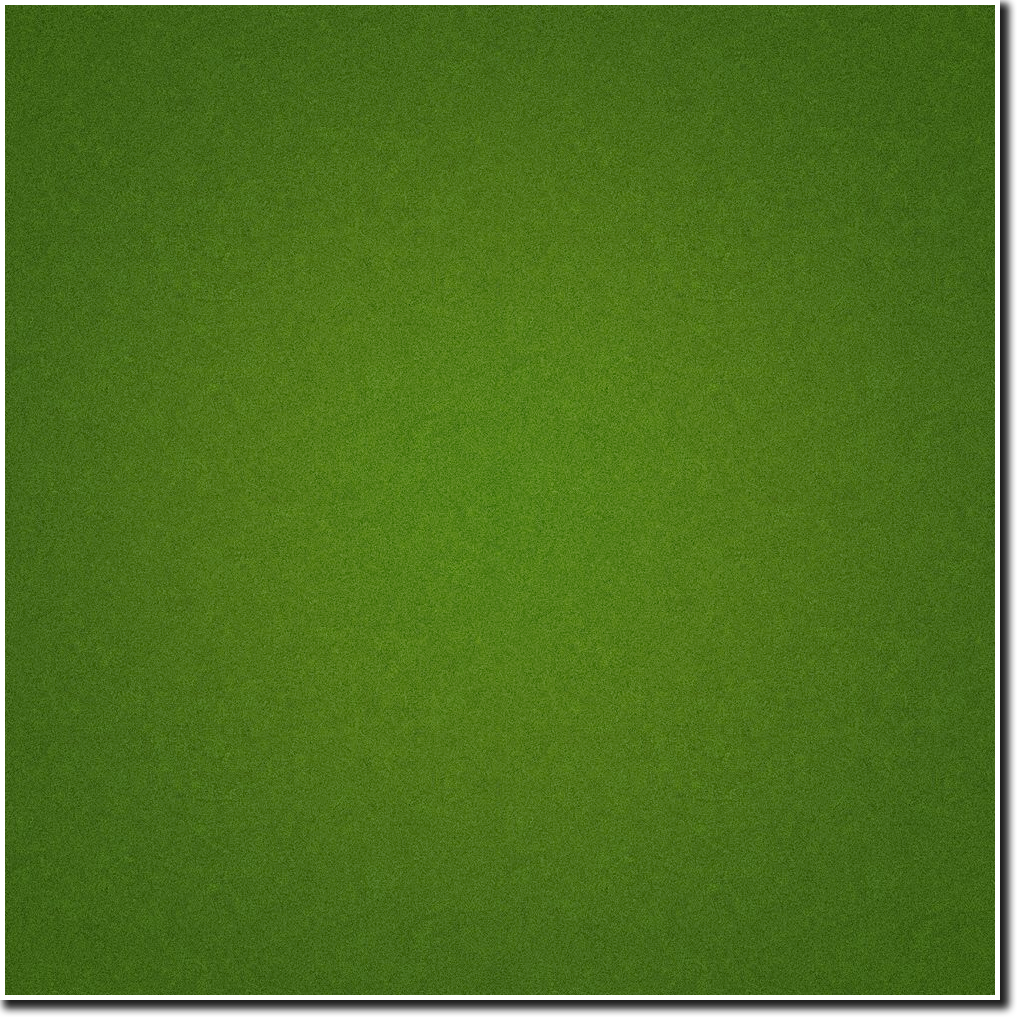
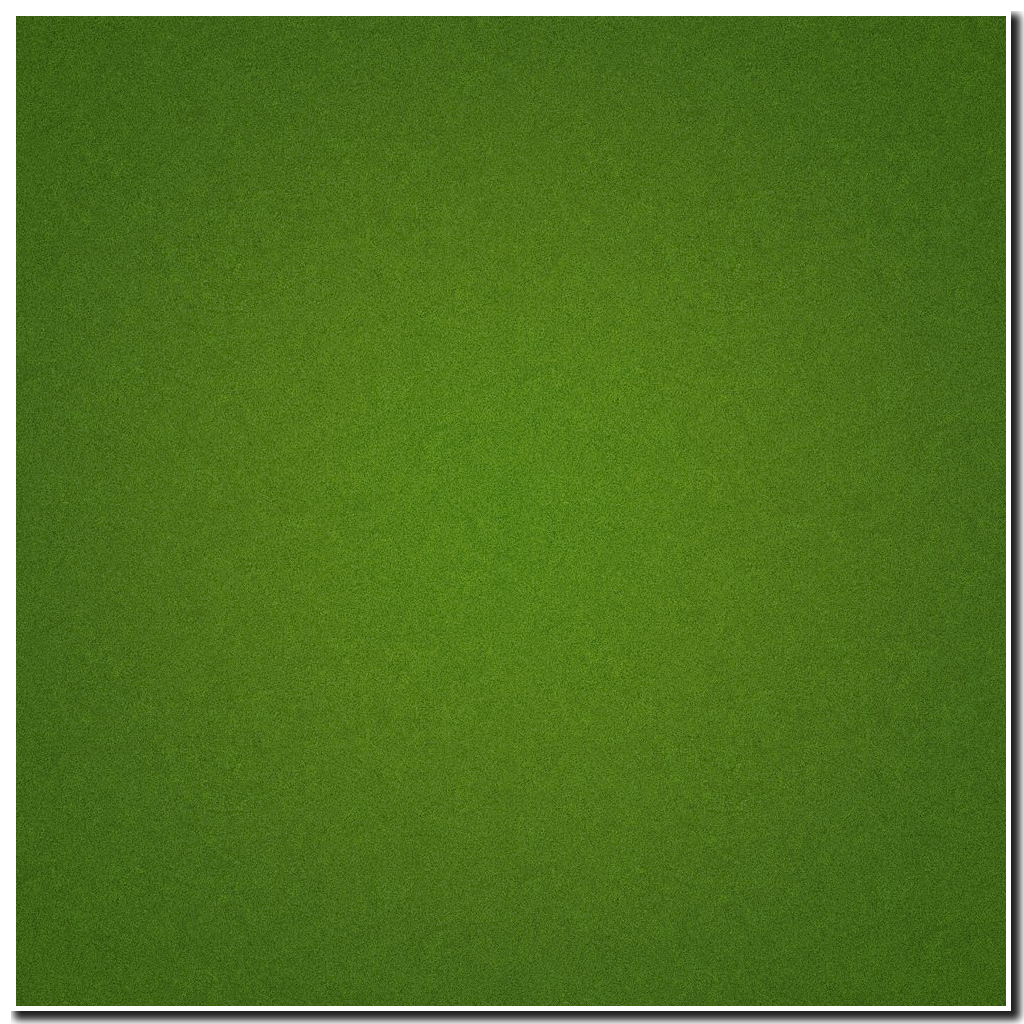
Képek frissítése és háttér

Changed region(s): [[0.0, 0.0, 1.0, 1.0]]

diff --git a/core/src/com/csanydroid/game/GameStage.java b/core/src/com/csanydroid/game/GameStage.java
@@ -185,6 +185,12 @@ public class GameStage extends Stage implements GestureDetector.GestureListener 
 		super(viewport, batch);
 		this.maze = maze;
 		loadMaze(maze);
+		int bgsize = maze.getWidth() > maze.getHeight() ? maze.getWidth() : maze.getHeight();
+		Gdx.app.log("bgsize", bgsize + "");
+		BackgroundActor backgroundActor = new BackgroundActor();
+		backgroundActor.setSize(bgsize + 4, bgsize + 4);
+		backgroundActor.setPosition(-2f + (bgsize - maze.getWidth()) / 2, -bgsize - 2f + (bgsize - maze.getHeight()) / 2);
+		addActor(backgroundActor);
 	}
 
 	public World getWorld() {

diff --git a/core/src/com/csanydroid/game/BackgroundActor.java b/core/src/com/csanydroid/game/BackgroundActor.java
@@ -1,0 +1,19 @@
+package com.csanydroid.game;
+
+import com.badlogic.gdx.graphics.Texture;
+import com.badlogic.gdx.graphics.g2d.Sprite;
+
+/**
+ * Created by tanulo on 2016.01.13..
+ */
+public class BackgroundActor extends GameActor {
+    private static Texture texture = new Texture("background.png");
+    public BackgroundActor() {
+        sprite = new Sprite(texture);
+    }
+
+    @Override
+    public void act(float delta) {
+
+    }
+}

diff --git a/core/src/com/csanydroid/game/MyScreen.java b/core/src/com/csanydroid/game/MyScreen.java
@@ -120,7 +120,7 @@ public class MyScreen implements Screen {
 
 	@Override
 	public void render(float delta) {
-		Gdx.gl.glClearColor(.7f, .7f, .7f, 1);
+		Gdx.gl.glClearColor(.0f, .08f, .0f, 1);
 		Gdx.gl.glClear(GL20.GL_COLOR_BUFFER_BIT);
 
 		batch.setProjectionMatrix(camera.combined);
